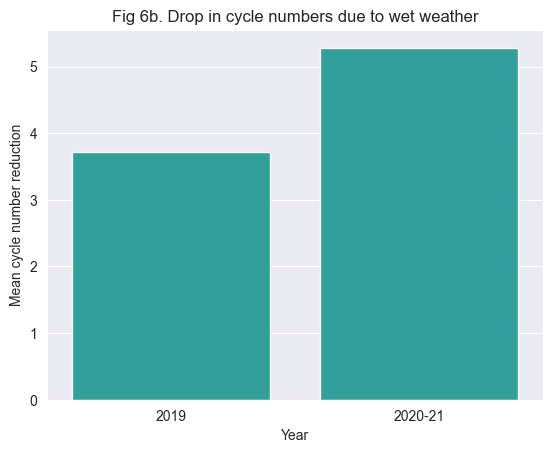
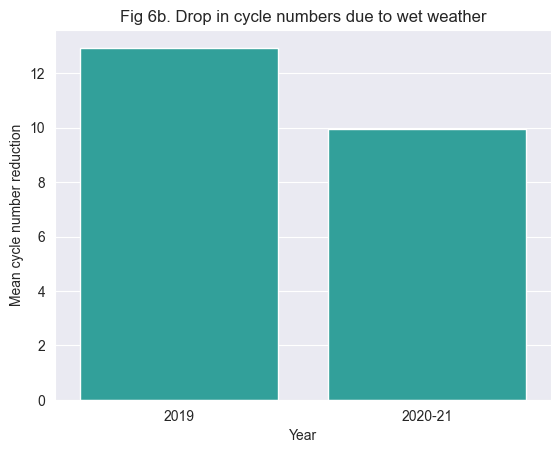
KAN-4 gist and wet dry edits

diff --git a/content/posts/cycling_in_weather.md b/content/posts/cycling_in_weather.md
@@ -4,7 +4,7 @@ date: 2023-06-02T15:41:49+01:00
 draft: false
 ---
 
-I’ve been riding a bike in London since 1993 so looking at a Transport for London dataset of bike trips was pretty much inevitable. Clearly rain and cold are what put off most people from riding year round, but how much difference does it make? Did the pandemic and avoidance of public transport make people hardier? And does brown fat make 5 degrees feel warmer in February than in November?
+I’ve been riding a bike in London since 1993 so looking at a Transport for London dataset of bike trips was pretty much inevitable. Clearly rain and cold are what put off most people from riding year round, but how much difference does it make? Did the pandemic and avoidance of public transport make people hardier? And does brown fat make 5 degrees C feel warmer in February than in November?
 
 I chose the Central London TfL data as I wanted to look at commuters. They are (mostly) consistent in having to make a journey five days a week, but get to choose which mode of transport they use to make that journey. 
 
@@ -14,7 +14,7 @@ The Central London data is collected from 210 sites. Let's look at the broad pic
 
 ![Mean monthly cycles by year barchart](/img/cw_fig1.png)
 
-We see that total cycle trips – which combines private cycles and public hire bikes – by year shows an upward trend until the start of the pandemic. From 2019 to 2020 there is a drop in cycle trips of 32.5%. In comparison London Underground passenger journeys dropped from 1,337 million in financial year 2019/20 to 296.1m in 2020/21 – a 77.9% decrease.
+We see that total cycle trips – which combines private cycles and public hire bikes – by year shows an upward trend until the start of the pandemic. 
 
 ![Mean monthly cyclecs by quarter barchart](/img/cw_fig2.png)
 
@@ -26,21 +26,13 @@ I want to see how temperature and precipitation affect rider numbers, so I got h
 
 Clearly temperature affects the number of people deciding to ride to work but by how much? 
 
-![Cycle counts by temperateure (2014-21) lineplot)](/img/cw_fig3.png)
+![Cycle counts by temperateure (2014-21) lineplot)](/img/cw_fig3a.png)
 
-The is a clear linear relationship from the regression. Personally I find it just too cold to want to ride a bike any significant distance when the temperature falls to zero and thought there might be a population-wide point where numbers drop precipitously, but this is not the case – some people are oblivious to frozen fingers and others real fair-weather riders.  
-
- Let’s look at the number cycle counts by temperature to see what’s happening at high and low temperatures. The temperatures are rounded to the nearest whole number for plotting purposes.
-
-![Number of cycle counts by temperature barchart](/img/cw_fig4.png)
-
-The mean figures start to fluctuate more radically below -2 and above 20 where the counts become much smaller, so the non-linearity at the extremes appears to be due to low sample sizes. 
-
-To put a figure on the effect of temperature, ignoring values below -2 and above 20 degrees indicates an increase of approximately 24% in cycle trip numbers over a temperature increase of 22 degrees.
+The is a clear linear relationship from the regression. Personally I find it just too cold to want to ride a bike any significant distance when the temperature falls to zero and thought there might be a population-wide point where numbers drop precipitously, but this is not the case – some people are oblivious to frozen fingers and others real fair-weather riders. Over a 20 degree change in temperature there is a 9% increase in cycle numbers.
 
 Are people that use hire bikes less ‘hardy’ than those that own their bikes? If this were the case we would expect to see a steeper line for the hire bikes.
 
-![Cycle counts by temperature - comparison of private and hire cycles](/img/cw_fig5.png)
+![Cycle counts by temperature - comparison of private and hire cycles](/img/cw_fig3b.png)
 
 The plots are very similar except for different rider numbers, so behaviour hardly differs between the two groups. 
 
@@ -48,25 +40,25 @@ The plots are very similar except for different rider numbers, so behaviour hard
 
 Rain used to stop me riding whatever the temperature, that is until I got full waterproofs after which it makes almost no difference. But the majority of people will just think it better to take the tube, so I figured that rain would have a much bigger impact on rider numbers.
 
-![Comparing cycle counts when wet and dry](/img/cw_fig6.png)
+![Comparing cycle counts when wet and dry](/img/cw_fig4.png)
 
-Definitely a large drop, but the most obvious difference is that in wet weather rider numbers don’t rise linearly with temperature. Let’s take a closer look.
+Definitely a substantial drop, but another difference is that in wet weather rider numbers don’t rise linearly with temperature. Let’s take a closer look.
 
-![Cycle counts when wet - polynomial fit](/img/cw_fig7.png)
+![Cycle counts when wet - polynomial fit](/img/cw_fig5a.png)
 
 This suggests that the number of cycles varies with the square of the temperature, but it doesn’t seem correct that there is one simple reason for this. At lower temperatures it's understandable that the combination of cold and wet would be more off-putting together, but what about at high temperatures? Could it be that the intensity of rain increases, to produce heavy downpour type rainfall?
 
-![Precipitation level by temperature](/img/cw_fig8.png)
+![Precipitation level by temperature](/img/cw_fig5b.png)
 
 The intensity of rain falls off at higher temperatures after peaking at 10 degrees, so isn’t the answer. Another explanation could be that wet days when it is hot are wet not just because of precipitation, but also because of perspiration – it's hard not overheat when the weather is hot and humid, plus not many workplaces have showers.
 
-![Relative humidity by temperature](/img/cw_fig9.png)
+![Relative humidity by temperature](/img/cw_fig5c.png)
 
 The relative humidity is higher on wet days than dry and the difference becomes more marked at higher temperatures, so this could be an explanation. 
 
-Let’s compare averages across all wet and dry days. The average of Total cycles for all dry days is 31 and this number drops by 11 on wet days, so a 35.5% decrease. (For some context to this figure the TfL data gives conditions for each 15 minute count and has a number of descriptors. I included any that indicated that it was actually raining at the time, such as ‘light rain’ or ‘drizzle’, but did not include those that indicated intermittent rain, like ’showers’ or ‘light showers’.)
+Let’s compare averages across all wet and dry days. The average of Total cycles for all dry days is 19 and this number drops by 4 on wet days, so a 22% decrease. (For some context to this figure the TfL data gives conditions for each 15 minute count and has a number of descriptors. I included any that indicated that it was actually raining at the time, such as ‘light rain’ or ‘drizzle’, but did not include those that indicated intermittent rain, like ’showers’ or ‘light showers’.)
 
-So wet weather cuts rider numbers by 35.5%, whereas the difference rider numbers over a range of 22 degrees (from +20 to -2) is 24%. 
+So wet weather cuts rider numbers by 22%, whereas the difference rider numbers over a range of 20 degrees is 9%. 
 
 The comparatively large effect of rain can in part be explained by there being more than seven dry days for every wet day so there is not a big incentive to investing in waterproofs, which are sometimes imperfect and then have to be dried out at work. 
 
@@ -74,19 +66,19 @@ Also cycling commutes in London are likely to be easily replaced by public trans
 
 ### Cycling and COVID-19
 
-The first bar chart above shows the effect on overall cycling numbers of the pandemic; a huge fall in numbers in 2020, with 2021 still nowhere near the 2019 total. The year on year drop in cycling was 55.6%, however the number of passenger journeys on the London Underground dropped by 77.9% (financial year figures). Some tube passengers did switch to cycling as [reported by TfL](https://tfl.gov.uk/info-for/media/press-releases/2021/december/new-tfl-data-shows-huge-increase-in-the-proportion-of-journeys-made-on-foot-and-by-cycle-during-the-pandemic).
+The first bar chart above shows the effect on overall cycling numbers of the pandemic; a large fall in numbers in 2020, with 2021 still not back to the 2018 and 2019 figures. The year on year drop in cycling was 32.5%, however the number of passenger journeys on the London Underground dropped by 77.9% (financial year figures). Some tube passengers did switch to cycling as [reported by TfL](https://tfl.gov.uk/info-for/media/press-releases/2021/december/new-tfl-data-shows-huge-increase-in-the-proportion-of-journeys-made-on-foot-and-by-cycle-during-the-pandemic).
 
 Again looking at my experience, I completely avoided public transport for over 18 months, preferring some short-term discomfort of bad weather over potential exposure to COVID. It could be expected that others would make a similar choice. To test this I have plotted how cycle trip numbers change with temperature for 2019 and 2021.
 
-![Drop in cycle trips due to temperature](/img/cw_fig10.png)
+![Drop in cycle trips due to temperature](/img/cw_fig6a.png)
 
-Comparing the effect of temperature on cycling before and during the pandemic the absolute numbers are not so important, though of course are lower in 2021 as more people worked remotely. What is more important is the steepness of the regression line – the 2019 plot shows a typical pattern with a significant drop in cycling as it got colder. By contrast the line for 2021 is nearly flat, so many more people persisted in cycling with the same drop in temperature.
+Comparing the effect of temperature on cycling before and during the pandemic the absolute numbers are not so important, though of course are lower in 2021 as more people worked remotely. What is more important is the steepness of the regression line – the 2019 plot shows a typical pattern with a significant drop in cycling as it got colder. By contrast the line for 2020-21 is nearly flat, so people persisted in cycling with the same drop in temperature.
 
-Looking at the numbers of riders on rainy days shows a similar trend in the fall of the average numbers of riders on rainy days compared to dry days.
+Looking at the numbers of riders on rainy days shows a similar trend in the fall of the mean numbers of riders on rainy days compared to dry days.
 
-![Drop in cycle trips due to wet weather](/img/cw_fig11.png)
+![Drop in cycle trips due to wet weather](/img/cw_fig6b.png)
 
-The bar chart shows the drop in mean total cycle trips on rainy days and the figure is lower for 2021, meaning that during the pandemic 23% fewer people were put off cycling by the rain compared to the year before the pandemic.
+The bar chart shows that post COVID there was a smaller drop in the number of cycles, meaning that during the pandemic 23% fewer people were put off cycling by the rain compared to the year before the pandemic.
 
 ### Cycling and brown fat
 
